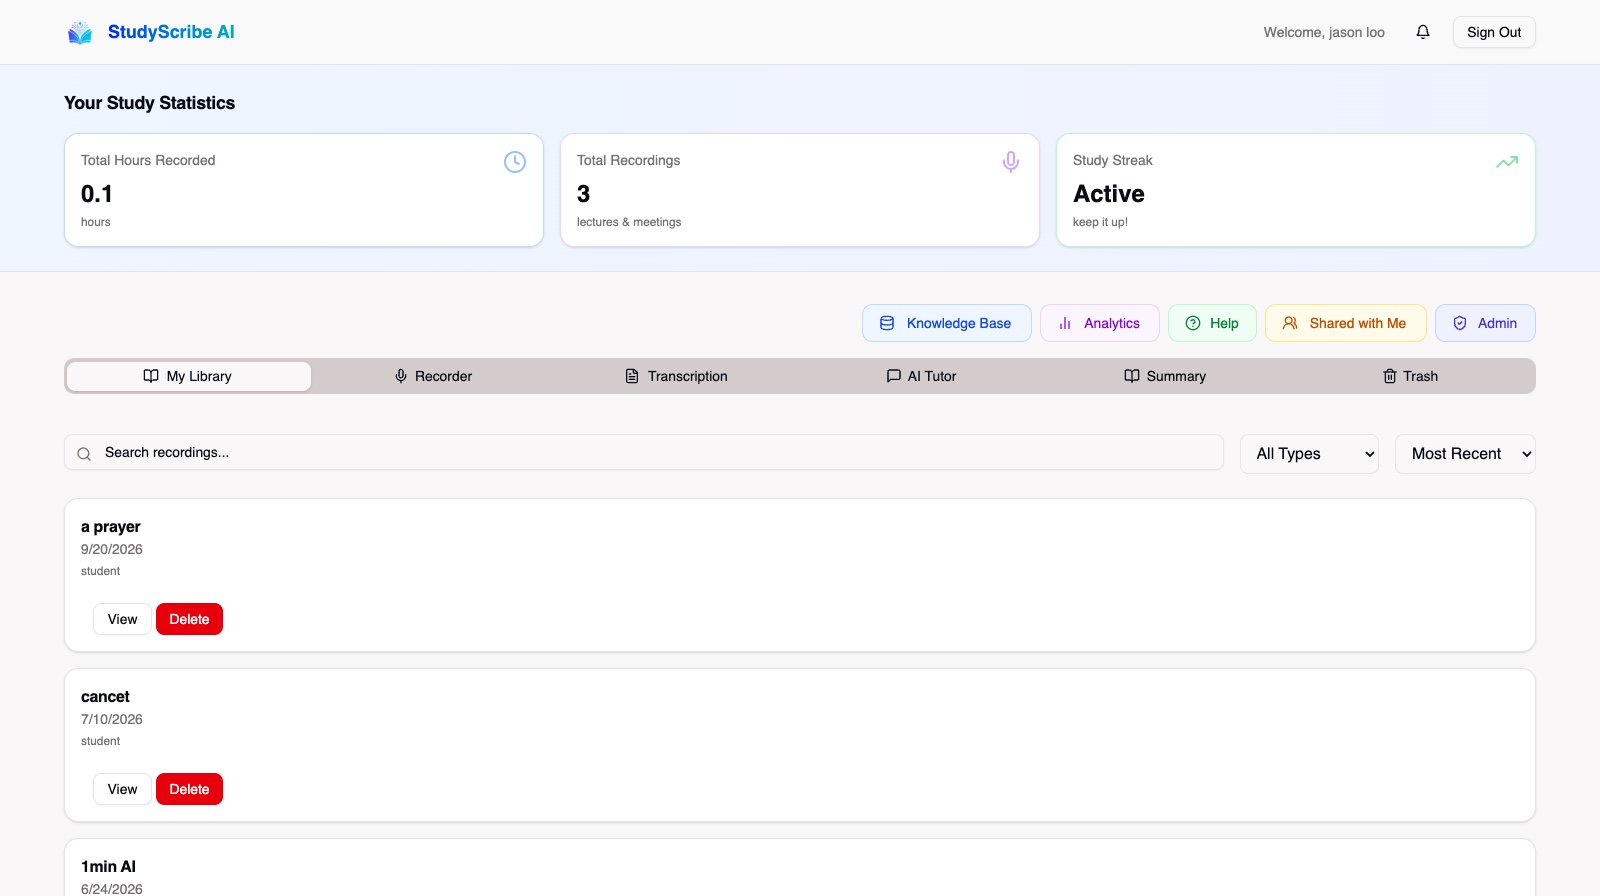
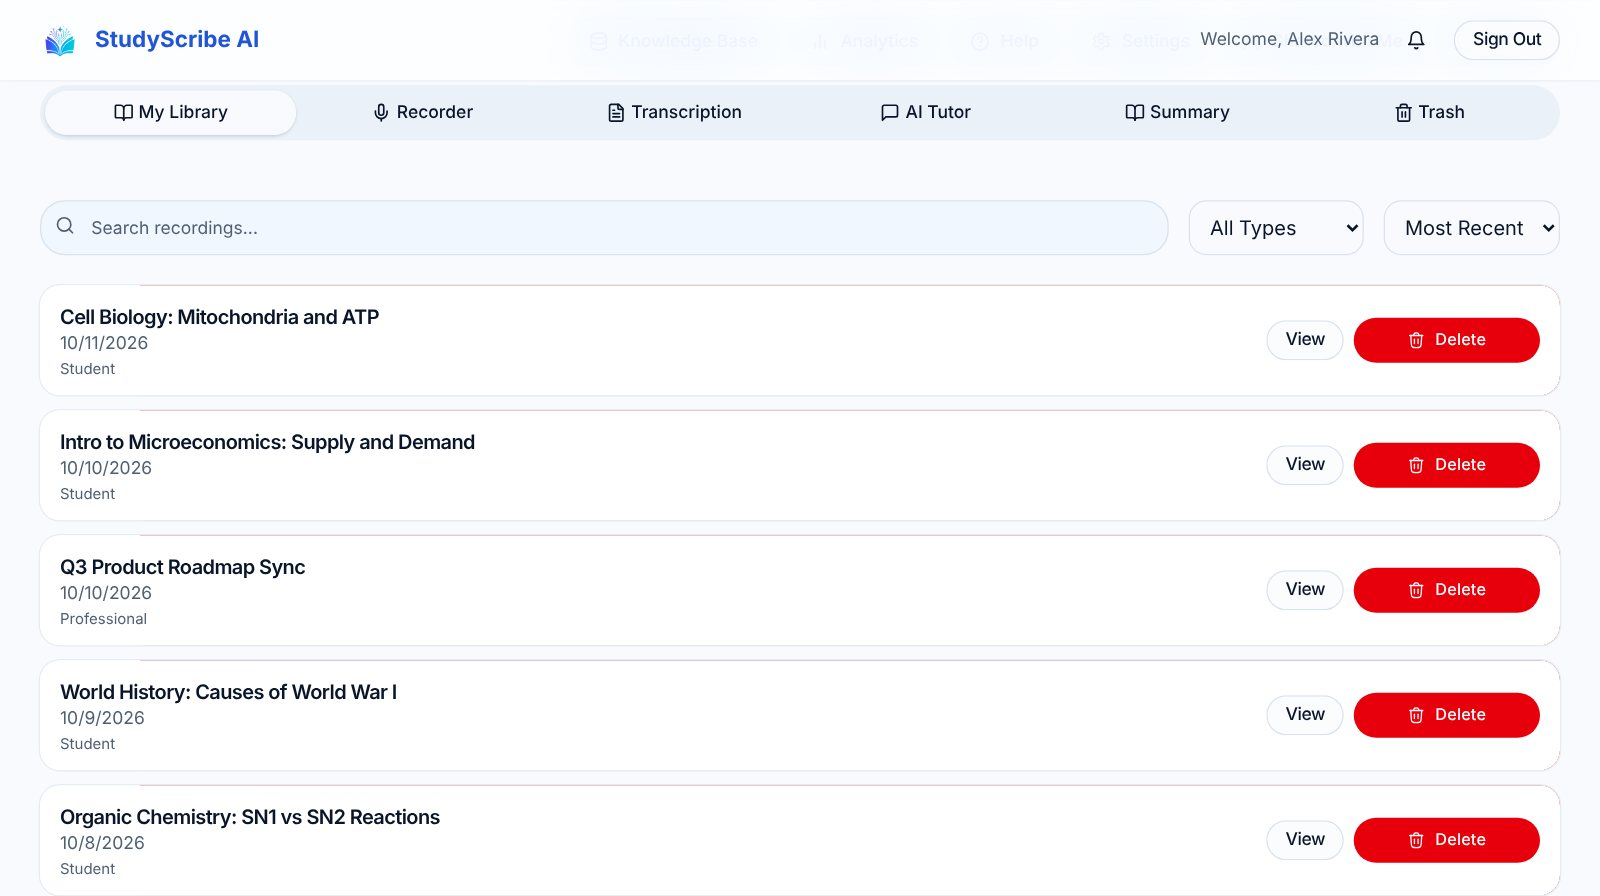
Retake landing screenshots from a varied lecture library
The landing images all showed the top of one recording ("a prayer"), so
"Read the transcript" and "Study with AI" looked the same, the
transcript tile showed no transcript and the flashcard tile showed no
flashcard. Each image is now a different recording, framed on the
feature it illustrates:

- dashboard: a library of 12 lectures and meetings
- transcript: Thermodynamics, with speakers, a search and the playing line
- study-notes: Microeconomics lecture notes with headings and formulas
- flashcards: a Cell Biology card in review mode, with deck progress
- quiz: a World War I question with its options
- study-guide: the SN1 vs SN2 comparison table
- ai-tutor: a Psychology tutoring exchange
- email-drafts: a Q3 roadmap meeting summary

Shot from the real app against seeded data, at a larger text size
(1.25-1.6x) so the UI is readable at 1600x896.

Claude-Session: https://claude.ai/code/session_01RKKTwZqJiXWePVrtBQj1DA

diff --git a/client/src/components/landing/HowItWorks.tsx b/client/src/components/landing/HowItWorks.tsx
@@ -2,7 +2,7 @@ import { useState } from "react";
 import { AnimatePresence, motion, useReducedMotion } from "motion/react";
 
 const STEPS = [
-  { title: "Record or upload", text: "Record live in your browser, upload an audio or video file, or paste a link. Transcription starts on its own.", image: "/landing/dashboard.jpg", alt: "Adding a new recording" },
+  { title: "Record or upload", text: "Record live in your browser, upload an audio or video file, or paste a link. Transcription starts on its own.", image: "/landing/dashboard.jpg", alt: "A library of recorded lectures and meetings" },
   { title: "Read the transcript", text: "Every word comes with timestamps and speaker labels. Click any line to jump to that moment in the audio.", image: "/landing/transcript.jpg", alt: "A timestamped transcript with speaker labels" },
   { title: "Study with AI", text: "Generate notes, flashcards, practice quizzes and study guides, then ask the tutor about anything in your lecture.", image: "/landing/study-notes.jpg", alt: "AI-generated study notes" },
 ];
